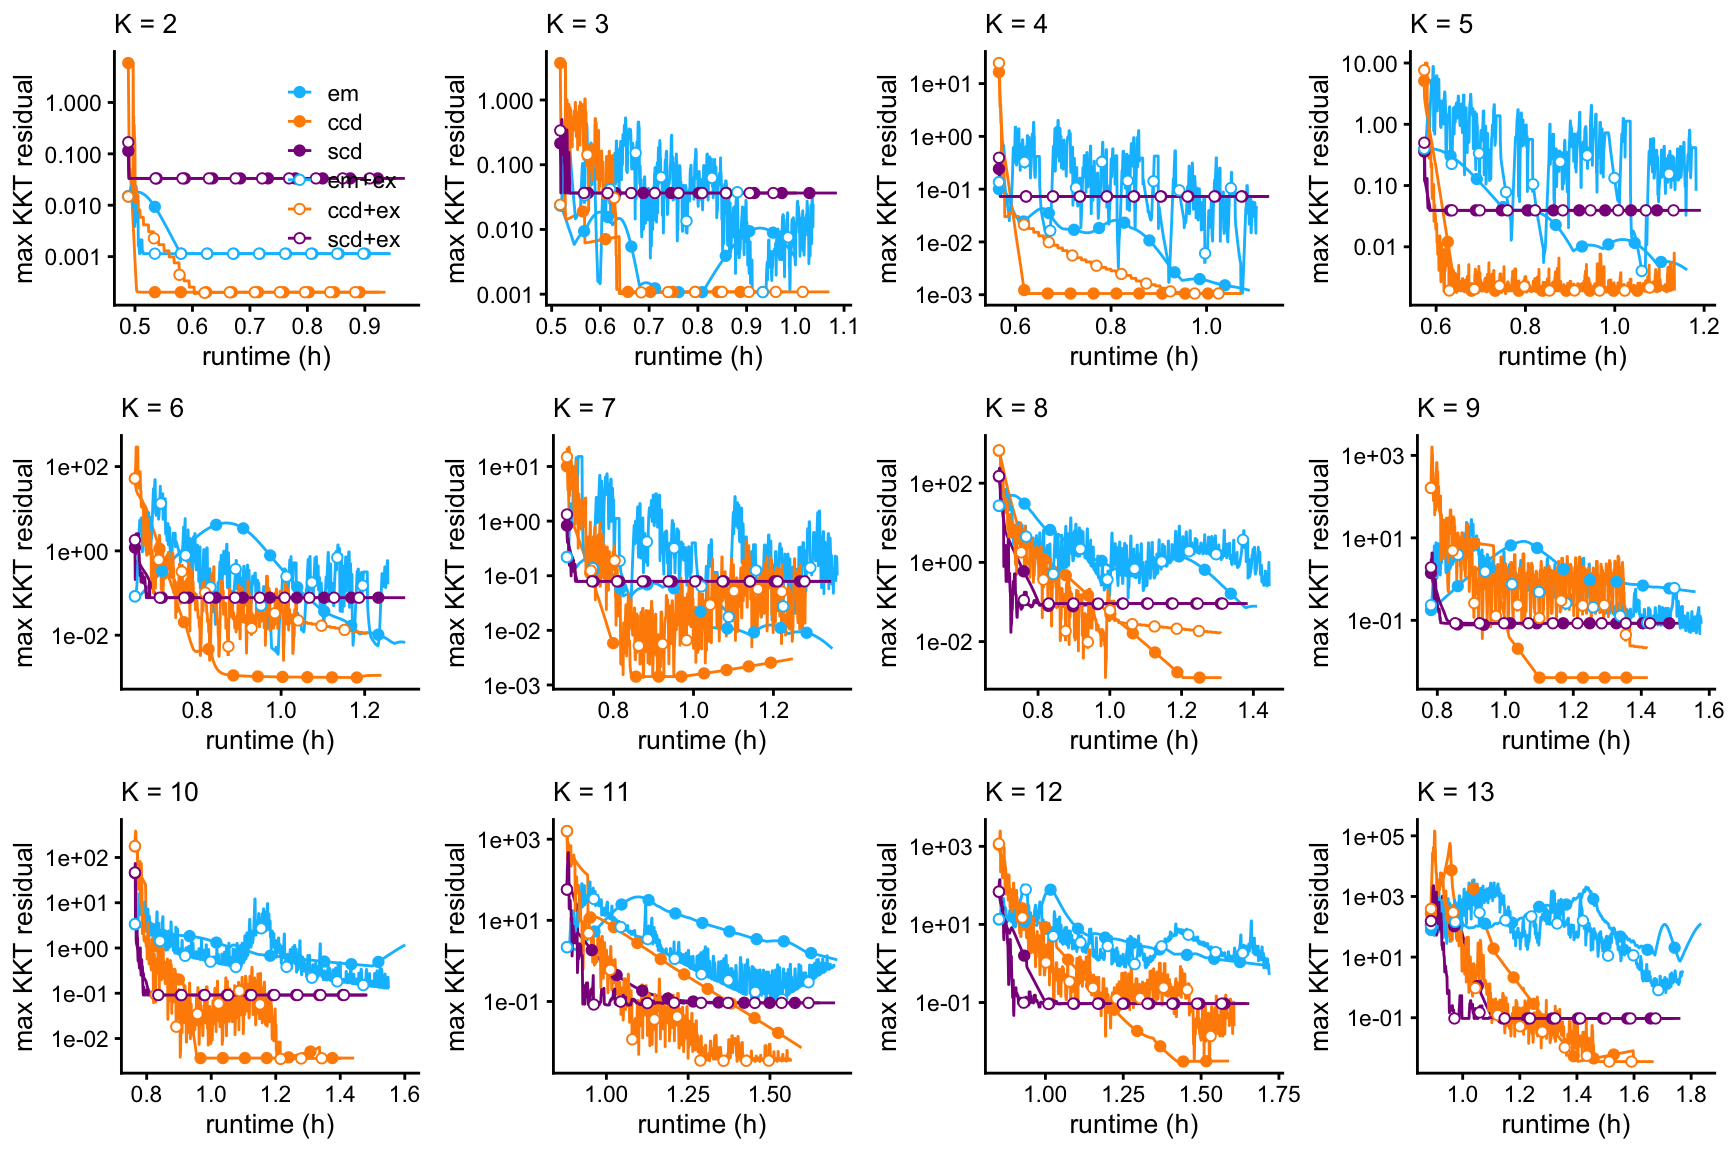
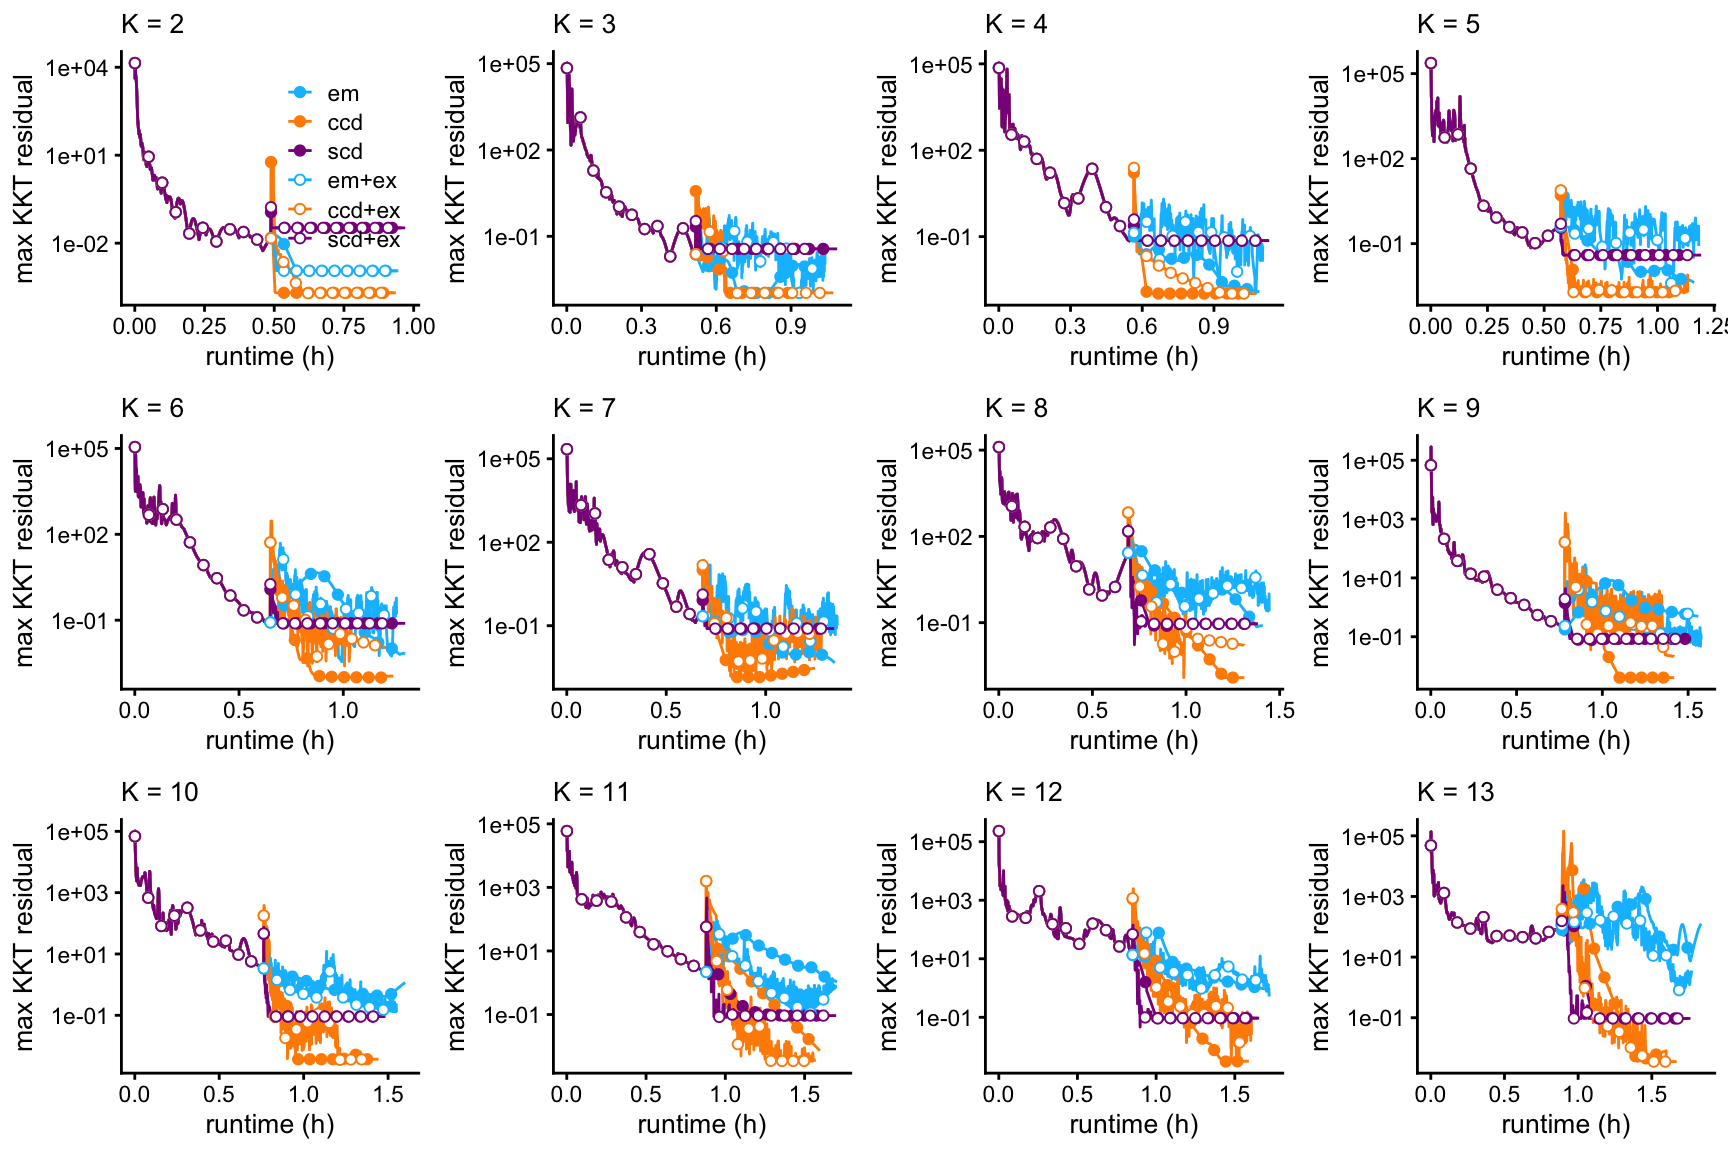
I no longer remove first 1,000 iterations in progress plots in assess_fits_droplet.

diff --git a/docs/assess_fits_droplet.html b/docs/assess_fits_droplet.html
@@ -323,7 +323,7 @@ $(document).ready(function () {
 <div class="tab-content">
 <div id="summary" class="tab-pane fade in active">
 <p>
-<strong>Last updated:</strong> 2020-11-13
+<strong>Last updated:</strong> 2020-11-14
 </p>
 <p>
 <strong>Checks:</strong> <span class="glyphicon glyphicon-ok text-success" aria-hidden="true"></span> 7 <span class="glyphicon glyphicon-exclamation-sign text-danger" aria-hidden="true"></span> 0
@@ -414,16 +414,16 @@ This reproducible <a href="http://rmarkdown.rstudio.com">R Markdown</a> analysis
 <div class="panel panel-default">
 <div class="panel-heading">
 <p class="panel-title">
-<a data-toggle="collapse" data-parent="#workflowr-checks" href="#strongRepositoryversionstrongahrefhttpsgithubcomstephenslabsinglecelltopicstree57aa99d8add8465c4698b70fa0a016bc20cf8a73targetblank57aa99da"> <span class="glyphicon glyphicon-ok text-success" aria-hidden="true"></span> <strong>Repository version:</strong> <a href="https://github.com/stephenslab/single-cell-topics/tree/57aa99d8add8465c4698b70fa0a016bc20cf8a73" target="_blank">57aa99d</a> </a>
+<a data-toggle="collapse" data-parent="#workflowr-checks" href="#strongRepositoryversionstrongahrefhttpsgithubcomstephenslabsinglecelltopicstree20d9f21536f66e9f027eba67f11e893b21cbe18ftargetblank20d9f21a"> <span class="glyphicon glyphicon-ok text-success" aria-hidden="true"></span> <strong>Repository version:</strong> <a href="https://github.com/stephenslab/single-cell-topics/tree/20d9f21536f66e9f027eba67f11e893b21cbe18f" target="_blank">20d9f21</a> </a>
 </p>
 </div>
[2 lines of base64/hex data omitted]
 <div class="panel-body">
 <p>
 Great! You are using Git for version control. Tracking code development and connecting the code version to the results is critical for reproducibility.
 </p>
 <p>
-The results in this page were generated with repository version <a href="https://github.com/stephenslab/single-cell-topics/tree/57aa99d8add8465c4698b70fa0a016bc20cf8a73" target="_blank">57aa99d</a>. See the <em>Past versions</em> tab to see a history of the changes made to the R Markdown and HTML files.
+The results in this page were generated with repository version <a href="https://github.com/stephenslab/single-cell-topics/tree/20d9f21536f66e9f027eba67f11e893b21cbe18f" target="_blank">20d9f21</a>. See the <em>Past versions</em> tab to see a history of the changes made to the R Markdown and HTML files.
 </p>
 <p>
 Note that you need to be careful to ensure that all relevant files for the analysis have been committed to Git prior to generating the results (you can use <code>wflow_publish</code> or <code>wflow_git_commit</code>). workflowr only checks the R Markdown file, but you know if there are other scripts or data files that it depends on. Below is the status of the Git repository when the results were generated:
@@ -487,6 +487,40 @@ Message
 </tr>
 </thead>
 <tbody>
+<tr>
+<td>
+Rmd
+</td>
+<td>
+<a href="https://github.com/stephenslab/single-cell-topics/blob/395683b3c4ed0e3b1f631d99e870a86fa36da4d1/analysis/assess_fits_droplet.Rmd" target="_blank">395683b</a>
+</td>
+<td>
+Peter Carbonetto
+</td>
+<td>
+2020-11-13
+</td>
+<td>
+Minor edits to text in assess_fits_droplet.
+</td>
+</tr>
+<tr>
+<td>
+html
+</td>
+<td>
+<a href="https://rawcdn.githack.com/stephenslab/single-cell-topics/8a7dd0185dfac9ff2e048f23a960c0be928c7945/docs/assess_fits_droplet.html" target="_blank">8a7dd01</a>
+</td>
+<td>
+Peter Carbonetto
+</td>
+<td>
+2020-11-13
+</td>
+<td>
+Small fix to assess_fits_droplet analysis.
+</td>
+</tr>
 <tr>
 <td>
 Rmd
@@ -749,7 +783,7 @@ Working on assess_fits_droplet analysis.
 </div>
 </div>
 </div>
-<p>Here we compare the quality of the fits obtained from the different updates (EM, CCD, SCD, with and without extrapolation), and with different <span class="math inline">\(k\)</span>.</p>
+<p>Here we compare the quality of the fits obtained from the different updates (EM, CCD, SCD, with and without extrapolation), and with different <span class="math inline">\(K\)</span>.</p>
 <p>Load the packages used in the analysis below, as well as some additional functions for creating the plots.</p>
 <pre class="r"><code>library(fastTopics)
 library(ggplot2)
@@ -757,7 +791,7 @@ library(cowplot)
 source(&quot;../code/functions_for_assessing_fits.R&quot;)</code></pre>
 <p>Load the results of running <code>fit_poisson_nmf</code> on the droplet data, with different algorithms, and for various settings of <span class="math inline">\(K\)</span> (the number of topics, or equivalently the dimension of the matrix factorization).</p>
 <pre class="r"><code>load(&quot;../output/droplet/fits-droplet.RData&quot;)</code></pre>
-<p>This plot shows the improvement in the log-likelihood as the rank, <span class="math inline">\(k\)</span>, is increased. The log-likelihoods are shown relative to the log-likelihood at <span class="math inline">\(K = 2\)</span>.</p>
+<p>This plot shows the improvement in the log-likelihood as the rank, <span class="math inline">\(K\)</span>, is increased. The log-likelihoods are shown relative to the log-likelihood at <span class="math inline">\(K = 2\)</span>.</p>
 <pre class="r"><code>plot_loglik_vs_rank(fits) +
   theme_cowplot(font_size = 12)</code></pre>
 <p><img src="figure/assess_fits_droplet.Rmd/plot-loglik-vs-k-1.png" width="480" style="display: block; margin: auto;" /></p>
